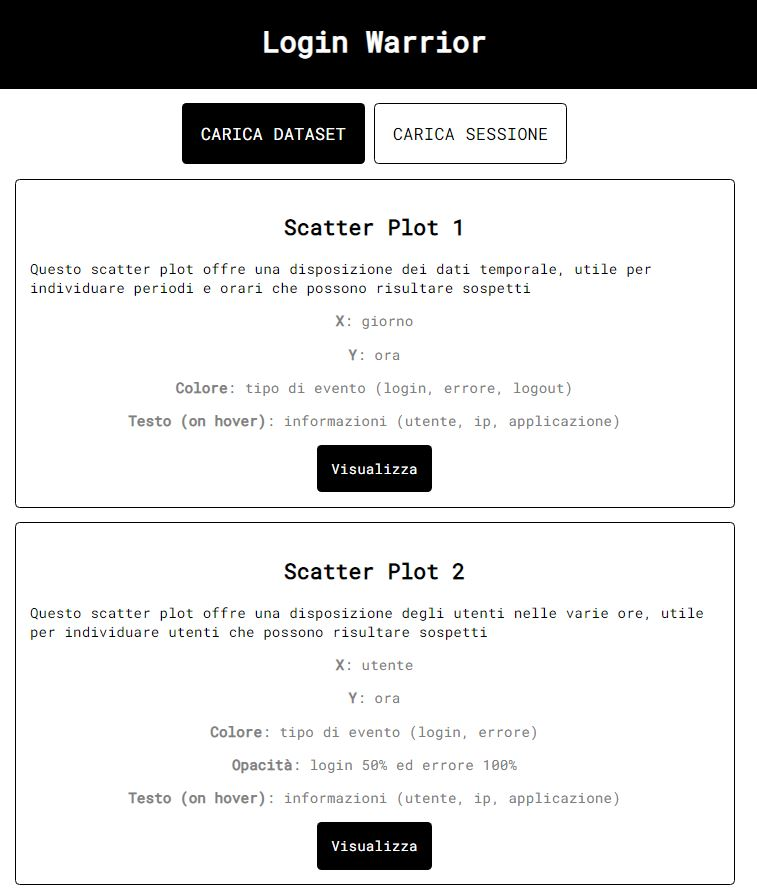
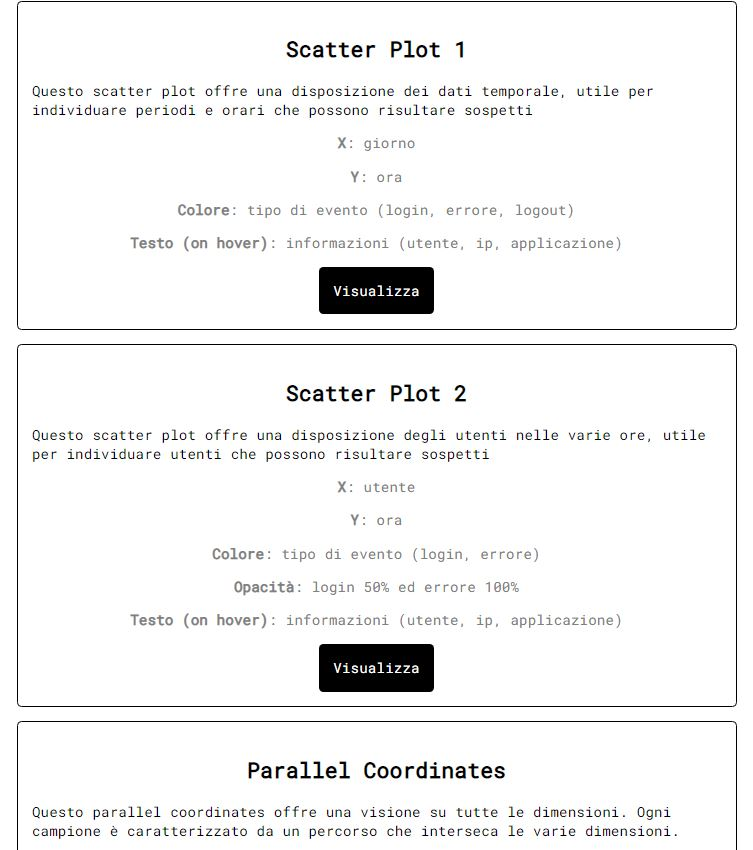
Scatter Plot e Bottoni

diff --git a/src/documenti/esterni/ManualeUtente/contenuti/istruzioniUso.tex b/src/documenti/esterni/ManualeUtente/contenuti/istruzioniUso.tex
@@ -18,11 +18,18 @@ Cliccando su "Carica dataset" comparirà una finestra di dialogo che ci permette
 \end{figure}
 
 Dopo aver caricato il dataset comparirà una lista dei grafici disponibili.
+Si potrà scegliere tra vari tipi di:
+\begin{itemize}
+  \item \textit{Scatter Plot};
+  \item \textit{Parallel Coordinates};
+  \item \textit{Sankey Diagram}.
+\end{itemize}
 
 \begin{figure}[H]
     \includegraphics[width=1.0\textwidth]{ListaGrafici.jpg}
     \caption{Screenshot della lista dei grafici}
 \end{figure}
+Successivamente per visionare un grafico basterà premere il bottone "Visualizza".
 
 \subsection{Carica sessione}
 Cliccando su "Carica sessione" comparirà una finestra di dialogo che ci permetterà di caricare i dati di una sessione salvata in precedenza. Seleziona quindi il file desiderato e poi clicca su "Apri" per caricare il file.
@@ -30,4 +37,51 @@ Cliccando su "Carica sessione" comparirà una finestra di dialogo che ci permett
 \begin{figure}[H]
     \includegraphics[width=1.0\textwidth]{BottoneSessione.JPG}
     \caption{Screenshot della finestra di dialogo per il caricamento della sessione}
+\end{figure}
+
+Dopo aver caricato la sessione nel sistema si potrà proseguire il lavoro da dove era stato salvato.
+
+\begin{figure}[H]
+    \includegraphics[width=1.0\textwidth]{CaricamentoSessione.JPG}
+    \caption{Screenshot della sessione caricata}
+\end{figure}
+
+\section{Bottoni}
+In ogni pagina di visualizzazione dei grafici, sono disponibili dei bottoni. Questi si trovano nell'estremo superiore sinistro della pagina.
+
+\subsection{Bottone Home}
+Questo bottone permette di ritornare alla Home in qualsiasi momento.
+
+\subsection{Nuovo Campionamento}
+Ogni grafico attua un algoritmo di campionamento dei dati del dataset per permettere all'utilizzatore di avere una buona visualizzazione delle informazioni (il numero di dati sennò potrebbe estremamente grande, quindi non gestibile).
+Questo bottone permette di estrapolare ogni volta dei dati nuovi attraverso l'algoritmo di campionamento. Se il numero di dati del dataset è inferiore al numero massimo di dati che il grafico può visualizzare questo bottone non provoca cambiamenti.
+
+\subsection{Salva Sessione}
+Questo bottone permette di salvare la sessione corrente in tutti i suoi aspetti, compreso i filtri. Basterà premerlo per scaricare la sessione e averla a portata di file!
+
+\begin{figure}[H]
+    \includegraphics[width=1.0\textwidth]{Bottoni1.JPG}
+    \caption{Screenshot che indica i bottoni}
+\end{figure}
+
+
+\section{Filtri}
+In ogni grafico è possibile impostare dei filtri. Questi sono impostabili dall'estremo inferiore sinistro della pagina.
+
+\section{Scatter Plot}
+Il grafico \textit{Scatter Plot} permette di visualizzare ogni azione degli utenti sotto forma di punti all'interno del piano cartesiano.
+Ogni azione ha un colore differente per avere una più facile visualizzazione.
+Il verde indica un login effettuato con successo, il rosso un errore e in grigio il logout.
+Per visualizzare le informazioni di ogni azione si dovrà posizionare il cursore al di sopra del pallino scelto. Le informazioni disponibili sono:
+\begin{itemize}
+  \item Ip;
+  \item Numero Utente;
+  \item Tipologia di evento;
+  \item Data;
+  \item Applicazione da dove è stata compiuta l'azione.
+\end{itemize}
+
+\begin{figure}[H]
+    \includegraphics[width=1.0\textwidth]{VisualizzaInformazioni.JPG}
+    \caption{Screenshot che mostra le informazioni di un pallino}
 \end{figure}
